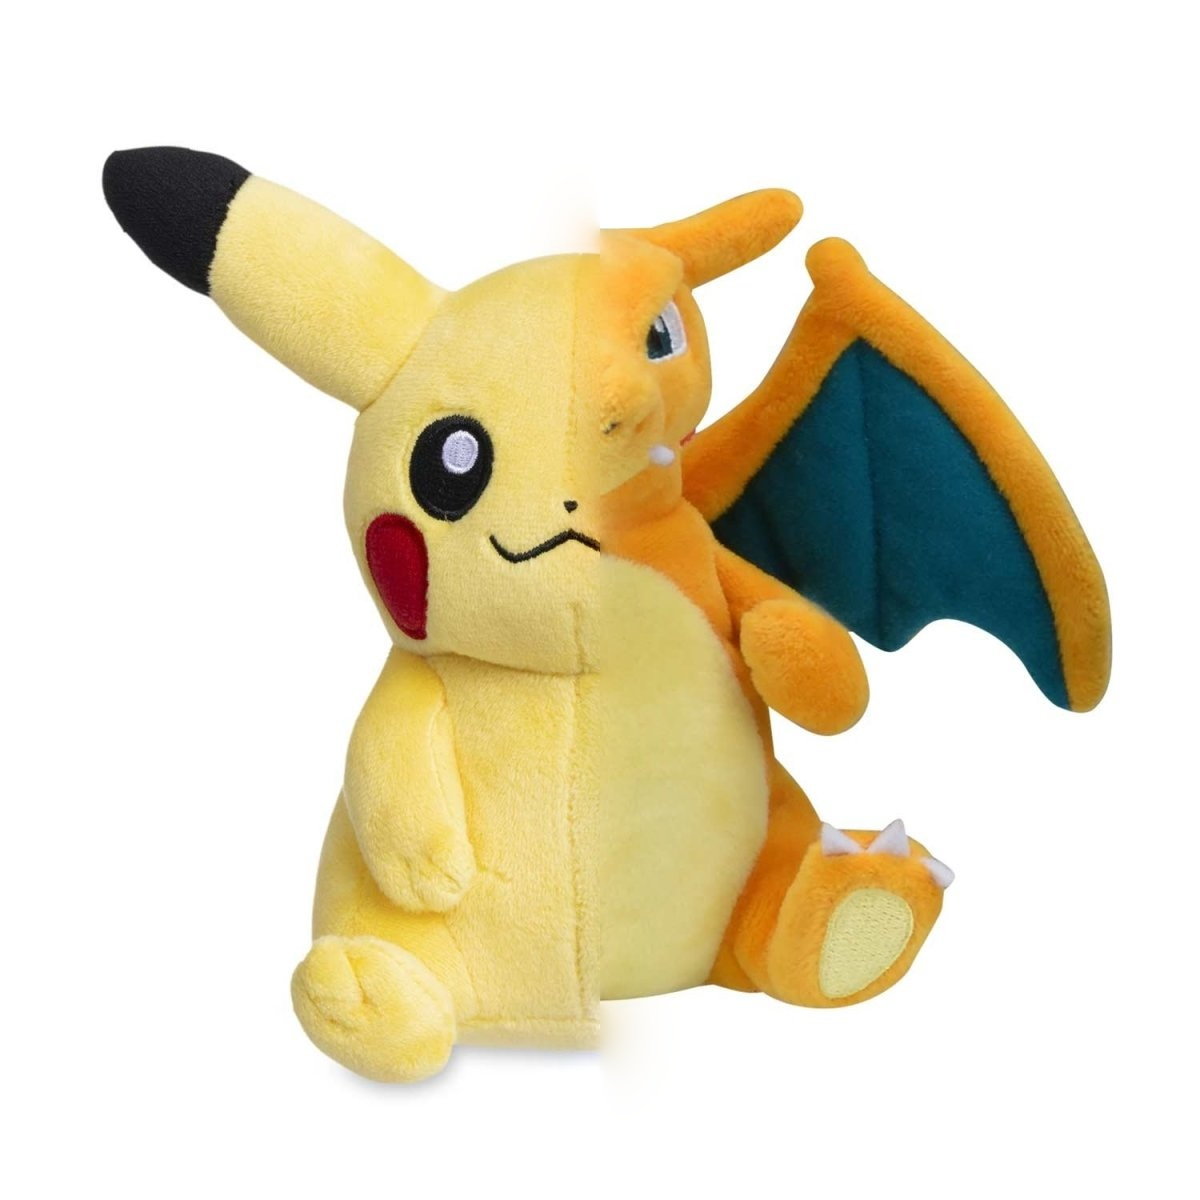
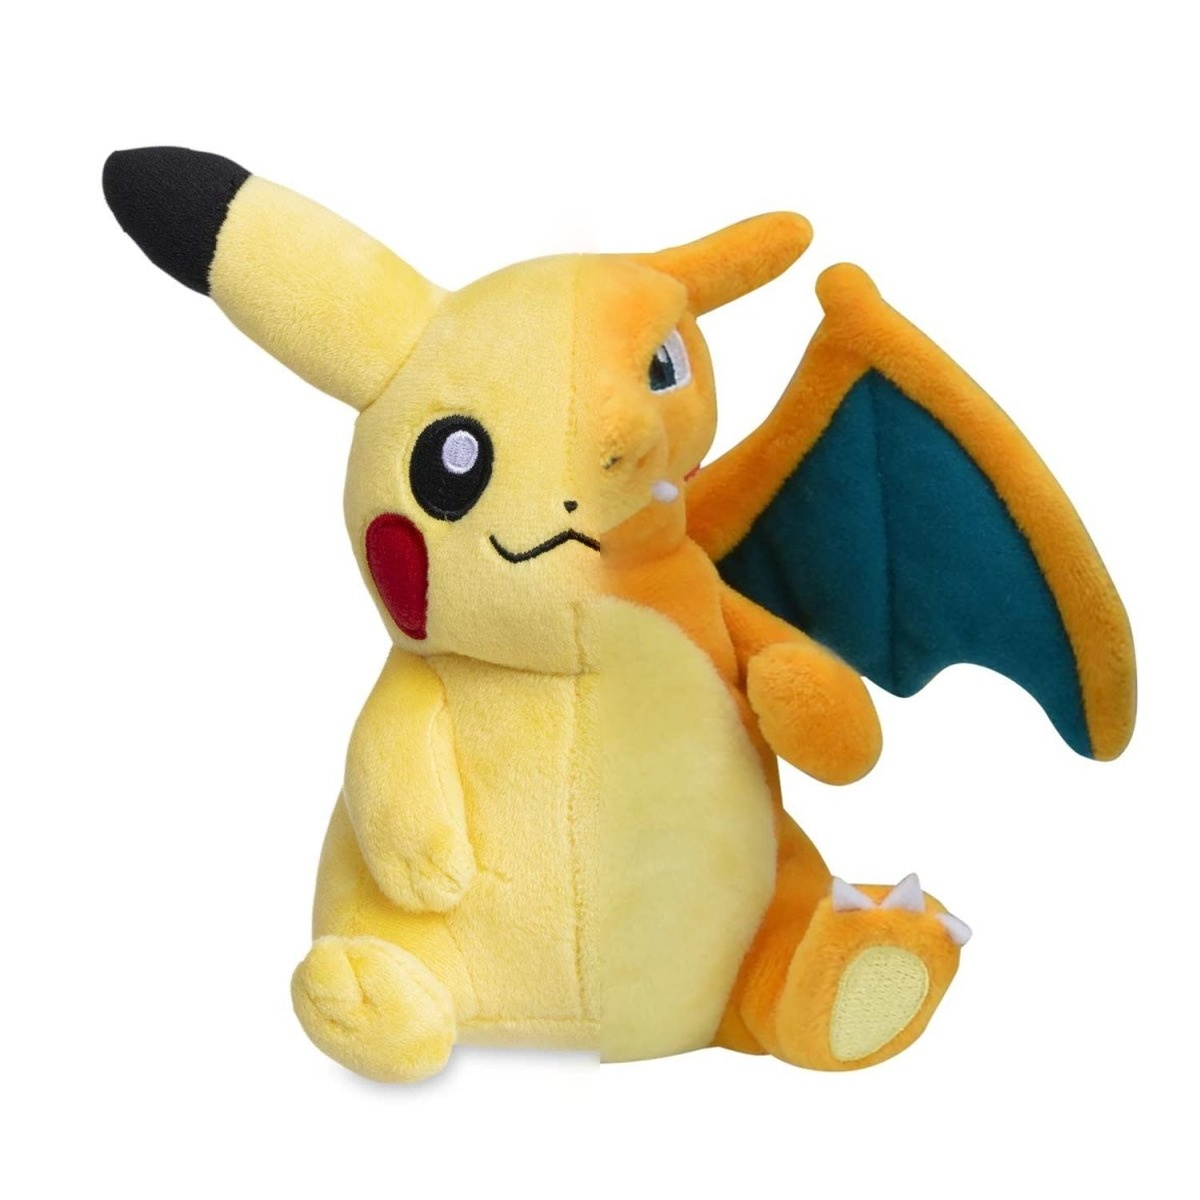
realign pikazard

Changed region(s): [[0.4625, 0.1542, 0.9558, 0.8942]]

diff --git a/proj2/index.html b/proj2/index.html
@@ -895,7 +895,8 @@ def laplacian_stack(gaussian):
   <h3>Plush toys</h3>
   <p class="setup">
     The same procedure runs on two plush toys, Pikachu and Charizard (1200&times;1200), with
-    &sigma;&nbsp;=&nbsp;4, 8, 16 and 32 for the blurred levels, since the images are four times larger.
+    &sigma;&nbsp;=&nbsp;4, 8, 16 and 32 for the blurred levels, since the images are four times larger. Charizard is scaled up 5% and shifted down to line up
+    with Pikachu at the seam, since the two figures otherwise sat at different heights in their photos.
   </p>
 
   <div class="grid3">

diff --git a/proj2/part2.py b/proj2/part2.py
@@ -1,4 +1,4 @@
-from helper import unsharp, convol_symm_with_scipy, gaussian_kernel_cv, align_images, crop_to_valid, gaussian_blur, hybrid_image, gaussian_stack, laplacian_stack, blend_stacks
+from helper import unsharp, convol_symm_with_scipy, gaussian_kernel_cv, align_images, crop_to_valid, gaussian_blur, hybrid_image, gaussian_stack, laplacian_stack, blend_stacks, match_at_seam
 from part1 import save_img
 import os
 import cv2
@@ -136,17 +136,22 @@ def make_montage(tiles, row_labels, tile_labels=None, headers=None, tile_size=30
     return np.array(canvas)[:, :, ::-1]
 
 def run_part2p3(path_to_img_folder):
-    # (name, first image, second image, names to show, sigma of the first blurred level). The left half of the blend
-    # is the first image. The blur doubles at every level, so the smaller Oraple images start at a smaller sigma
+    # (name, first image, second image, names to show, sigma of the first blurred level, whether to line the second image
+    # up with the first at the seam). The left half of the blend is the first image. The blur doubles at every level, so
+    # the smaller Oraple images start at a smaller sigma
     pairs = [
-        ("oraple", "apple.jpeg", "orange.jpeg", ("apple", "orange"), 2),
-        ("plush", "pikachu.jpg", "charizard.jpg", ("pikachu", "charizard"), 4),
+        ("oraple", "apple.jpeg", "orange.jpeg", ("apple", "orange"), 2, False),
+        ("plush", "pikachu.jpg", "charizard.jpg", ("pikachu", "charizard"), 4, True),
     ]
     levels = 5
     band_gain = 3
-    for pair, name1, name2, names, sigma in pairs:
+    for pair, name1, name2, names, sigma, match_seam in pairs:
         im1 = load_rgb(os.path.join(path_to_img_folder, name1))
         im2 = load_rgb(os.path.join(path_to_img_folder, name2))
+        if match_seam:
+            im2, scale, shift = match_at_seam(im2, im1)
+            print(f"{pair}: second image scaled by {scale:.3f} and shifted to cover the same rows as the first at the seam")
+            save_img(f"{path_to_img_folder}/{pair}_{names[1]}_aligned.jpg", rgb_to_bgr_uint8(im2))
         blur_labels = ["original"] + [f"\u03c3 = {sigma * 2 ** (i - 1)}" for i in range(1, levels)]
 
         # Gaussian and Laplacian stacks of both images, shown as a montage per image. The band-pass levels of the

diff --git a/proj2/helper.py b/proj2/helper.py
@@ -262,3 +262,18 @@ def blend_stacks(laplacian_a, laplacian_b, mask_gaussian):
     # and level i of the second by what is left. Returns every blended level, and their sum is the blended image
     mask = mask_gaussian[..., np.newaxis]
     return mask * laplacian_a + (1 - mask) * laplacian_b
+
+def match_at_seam(image, reference, white=0.94):
+    # Scale an image about its center column and shift it up or down so the figure in it covers the same rows at the seam
+    # (the center column) as the figure in reference does. Both are on a white background, and new space is filled with white
+    def extent(im):
+        rows = np.where((im[:, im.shape[1] // 2] < white).any(axis=1))[0]
+        return rows.min(), rows.max()
+    top_ref, bottom_ref = extent(reference)
+    top, bottom = extent(image)
+    scale = (bottom_ref - top_ref) / (bottom - top)
+    shift = top_ref - scale * top
+    matrix = np.array([[scale, 0, image.shape[1] / 2 * (1 - scale)], [0, scale, shift]])
+    warped = cv2.warpAffine(image.astype(np.float32), matrix, (image.shape[1], image.shape[0]), flags=cv2.INTER_CUBIC,
+                            borderMode=cv2.BORDER_CONSTANT, borderValue=(1, 1, 1))
+    return np.clip(warped, 0, 1).astype(float), scale, shift
